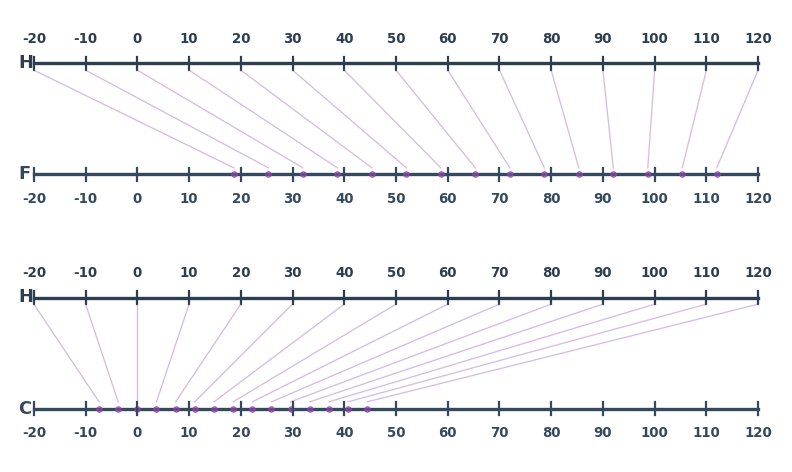
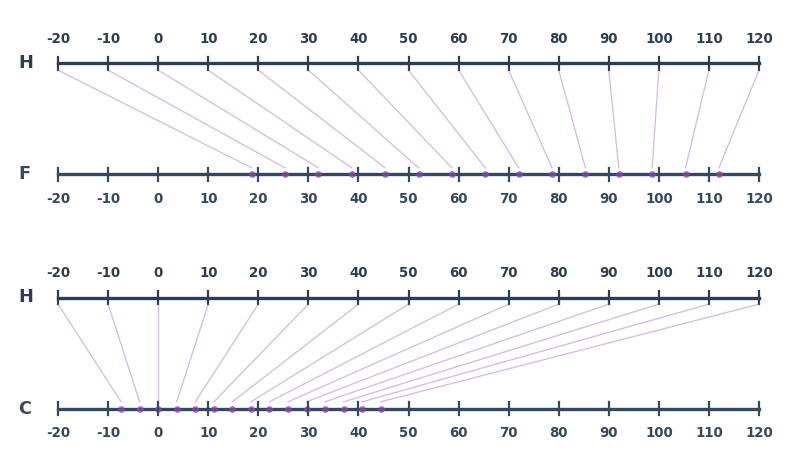
Dark theme image

diff --git a/README.md b/README.md
@@ -7,7 +7,7 @@ The Herron (H) temperature scale is a practical temperature system with two intu
 
 Very simple and straightforward, and it wasn't exactly a lot of work to create. However, as far as I can tell no one has ever proposed this system before (at least, I can't find it anywhere). So then, this document is my proposal. I do think it's superior for everyday use, and if nothing else it's an interesting alternative. 
 
-![Scale translation numberlines](herron_scale_visualization.png)
+![Scale translation numberlines](herron_scale_visualization_dark.png)
 
 I'm calling this the Herron scale only because every major temperature system seems to have taken the surname of its inventor. If you have a better name idea, I'm open to anything that would increase the likelihood of adoption.
 
